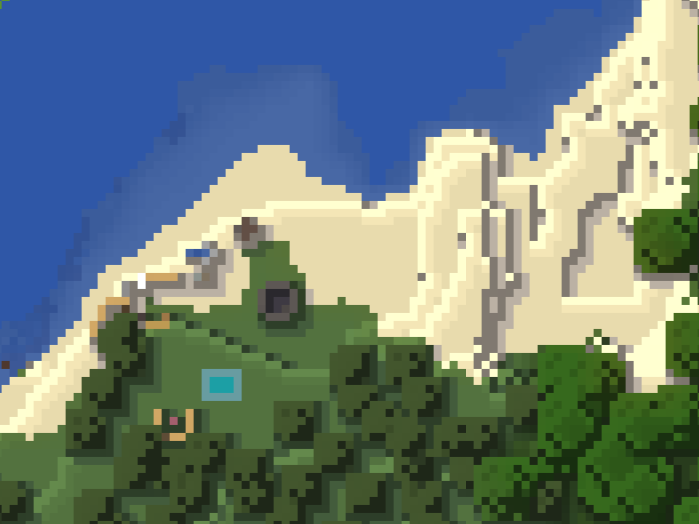
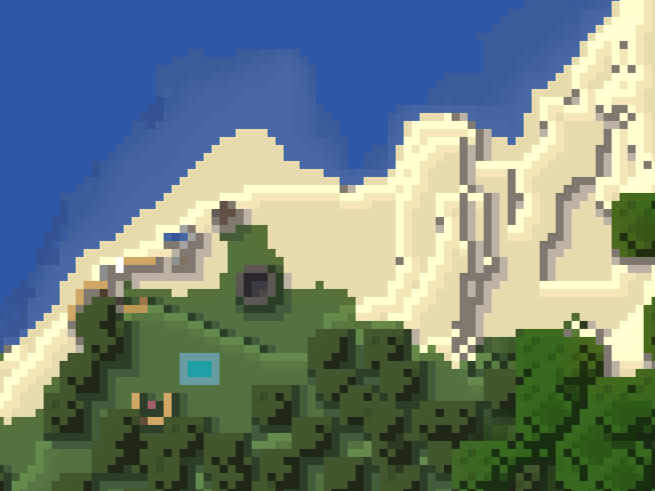
Ver 1.02
Updated Beach House, Added Tree Farm.

Changed region(s): [[0.0, 0.0, 1.0, 1.0], [0.4275, 0.3055, 0.458, 0.336]]

diff --git a/harbour.html b/harbour.html
@@ -115,17 +115,32 @@
                 <li class="nav-item flex-fill" role="presentation">
                   <button class="nav-link w-100 active" id="phase-1-tab" data-bs-toggle="tab" data-bs-target="#bordered-justified-phase-1" type="button" role="tab" aria-controls="phase-1" aria-selected="true">Phase 1</button>
                 </li>
+                <li class="nav-item flex-fill" role="presentation">
+                  <button class="nav-link w-100" id="phase-2-tab" data-bs-toggle="tab" data-bs-target="#bordered-justified-phase-2" type="button" role="tab" aria-controls="phase-2" aria-selected="false">Phase 2</button>
+                </li>
               </ul>
               <div class="tab-content pt-4" id="borderedTabJustifiedContent">
                 <div class="tab-pane fade show active" id="bordered-justified-phase-1" role="tabpanel" aria-labelledby="phase-1-tab">
                   <div class="row">
                     <div class="col-lg-12">
-                      <img src="assets/images/Harbour/outside-2.png" alt="" style="border-radius: 23px; margin-bottom: 30px;">
-                    </div>
-                    <div class="col-lg-12">
-                      <h3>This is fairly simple it's just dark oak logs for the border and supports and oakwood planks for the inside. It'll take a while to gather 
-                        the wood as it would be better used elsewhere for now. This is extremely low priority.
+                      <h3>The plan changed from the original and now a cobblestone wall is going to be build to raise the Harbour up.
                       </h3>
+                    </div>
+                  </div>
+                </div>
+                <div class="tab-pane fade" id="bordered-justified-phase-2" role="tabpanel" aria-labelledby="phase-2-tab">
+                  <div class="row">
+                    <div class="col-lg-12">
+                      <div class="row">
+                        <div class="col-lg-12">
+                          <h3>This is fairly simple it's just dark oak logs for the border and supports and oakwood planks for the inside. It'll take a while to gather 
+                            the wood as it would be better used elsewhere for now. This is extremely low priority.
+                          </h3>
+                          <div class="col-lg-12">
+                              <img src="assets/images/Harbour/outside-2.png" alt="" style="border-radius: 23px; margin-bottom: 30px;">
+                          </div>
+                        </div>
+                      </div>
                     </div>
                   </div>
                 </div>

diff --git a/inprogress.html b/inprogress.html
@@ -140,8 +140,8 @@
                       <img src="assets/images/Harbour/overview-1.png" alt="">
                       <h4>Harbour<br><span>In progress</span></h4>
                       <ul>
-                        <li><i class="fa fa-info-circle-easy"></i> </li>
-                        <li></i>Easy</li>
+                        <li><i class="fa fa-info-circle-medium"></i> </li>
+                        <li></i>Medium</li>
                       </ul>
                     </a>
                     </div>
@@ -174,8 +174,14 @@
                     </div>
                     <div class="col-lg-3 col-sm-6">
                       <div class="item">
-                        <img src="assets/images/Blank.png" alt="">
-                        <h4>Blank<br><span>Blank</span></h4>
+                        <a href="treefarm.html">
+                        <img src="assets/images/beach-house/overview-1.png" alt="">
+                        <h4>Tree Farm<br><span>In progress</span></h4>
+                        <ul>
+                          <li><i class="fa fa-info-circle-easy"></i> </li>
+                          <li></i>Easy</li>
+                        </ul>
+                      </a>
                       </div>
                     </div>
                     <div class="col-lg-3 col-sm-6">

diff --git a/treefarm.html b/treefarm.html
@@ -64,7 +64,7 @@
                         <li><a href="browse.html">Browse</a></li>
                         <li><a href="streams.html">In Progress</a></li>
                         <li><a href="streams.html">Completed</a></li>
-                        <li><a href="details.html" class="active">Beach House</a></li>
+                        <li><a href="details.html" class="active">Tree Farm</a></li>
                     </ul>   
                     <a class='menu-trigger'>
                         <span>Menu</span>
@@ -105,7 +105,7 @@
           <div class="game-details">
             <div class="row">
               <div class="col-lg-12">
-                <h2>The Beach House Details</h2>
+                <h2>Tree Farm Details</h2>
               </div>
               <div class="col-lg-12">
                 <div class="content">
@@ -126,7 +126,7 @@
                 <div class="tab-pane fade show active" id="bordered-justified-phase-1" role="tabpanel" aria-labelledby="phase-1-tab">
                   <div class="row">
                     <div class="col-lg-12">
-                      <h3>To be decided
+                      <h3>The Plan is to make a farm of every type of wood so building is easier.
                       </h3>
                     </div>
                   </div>

diff --git a/index.html b/index.html
@@ -146,8 +146,8 @@
                       <img src="assets/images/Harbour/overview-1.png" alt="">
                       <h4>Harbour<br><span>In progress</span></h4>
                       <ul>
-                        <li><i class="fa fa-info-circle-easy"></i> </li>
-                        <li></i>Easy</li>
+                        <li><i class="fa fa-info-circle-medium"></i> </li>
+                        <li></i>Medium</li>
                       </ul>
                     </a>
                     </div>
